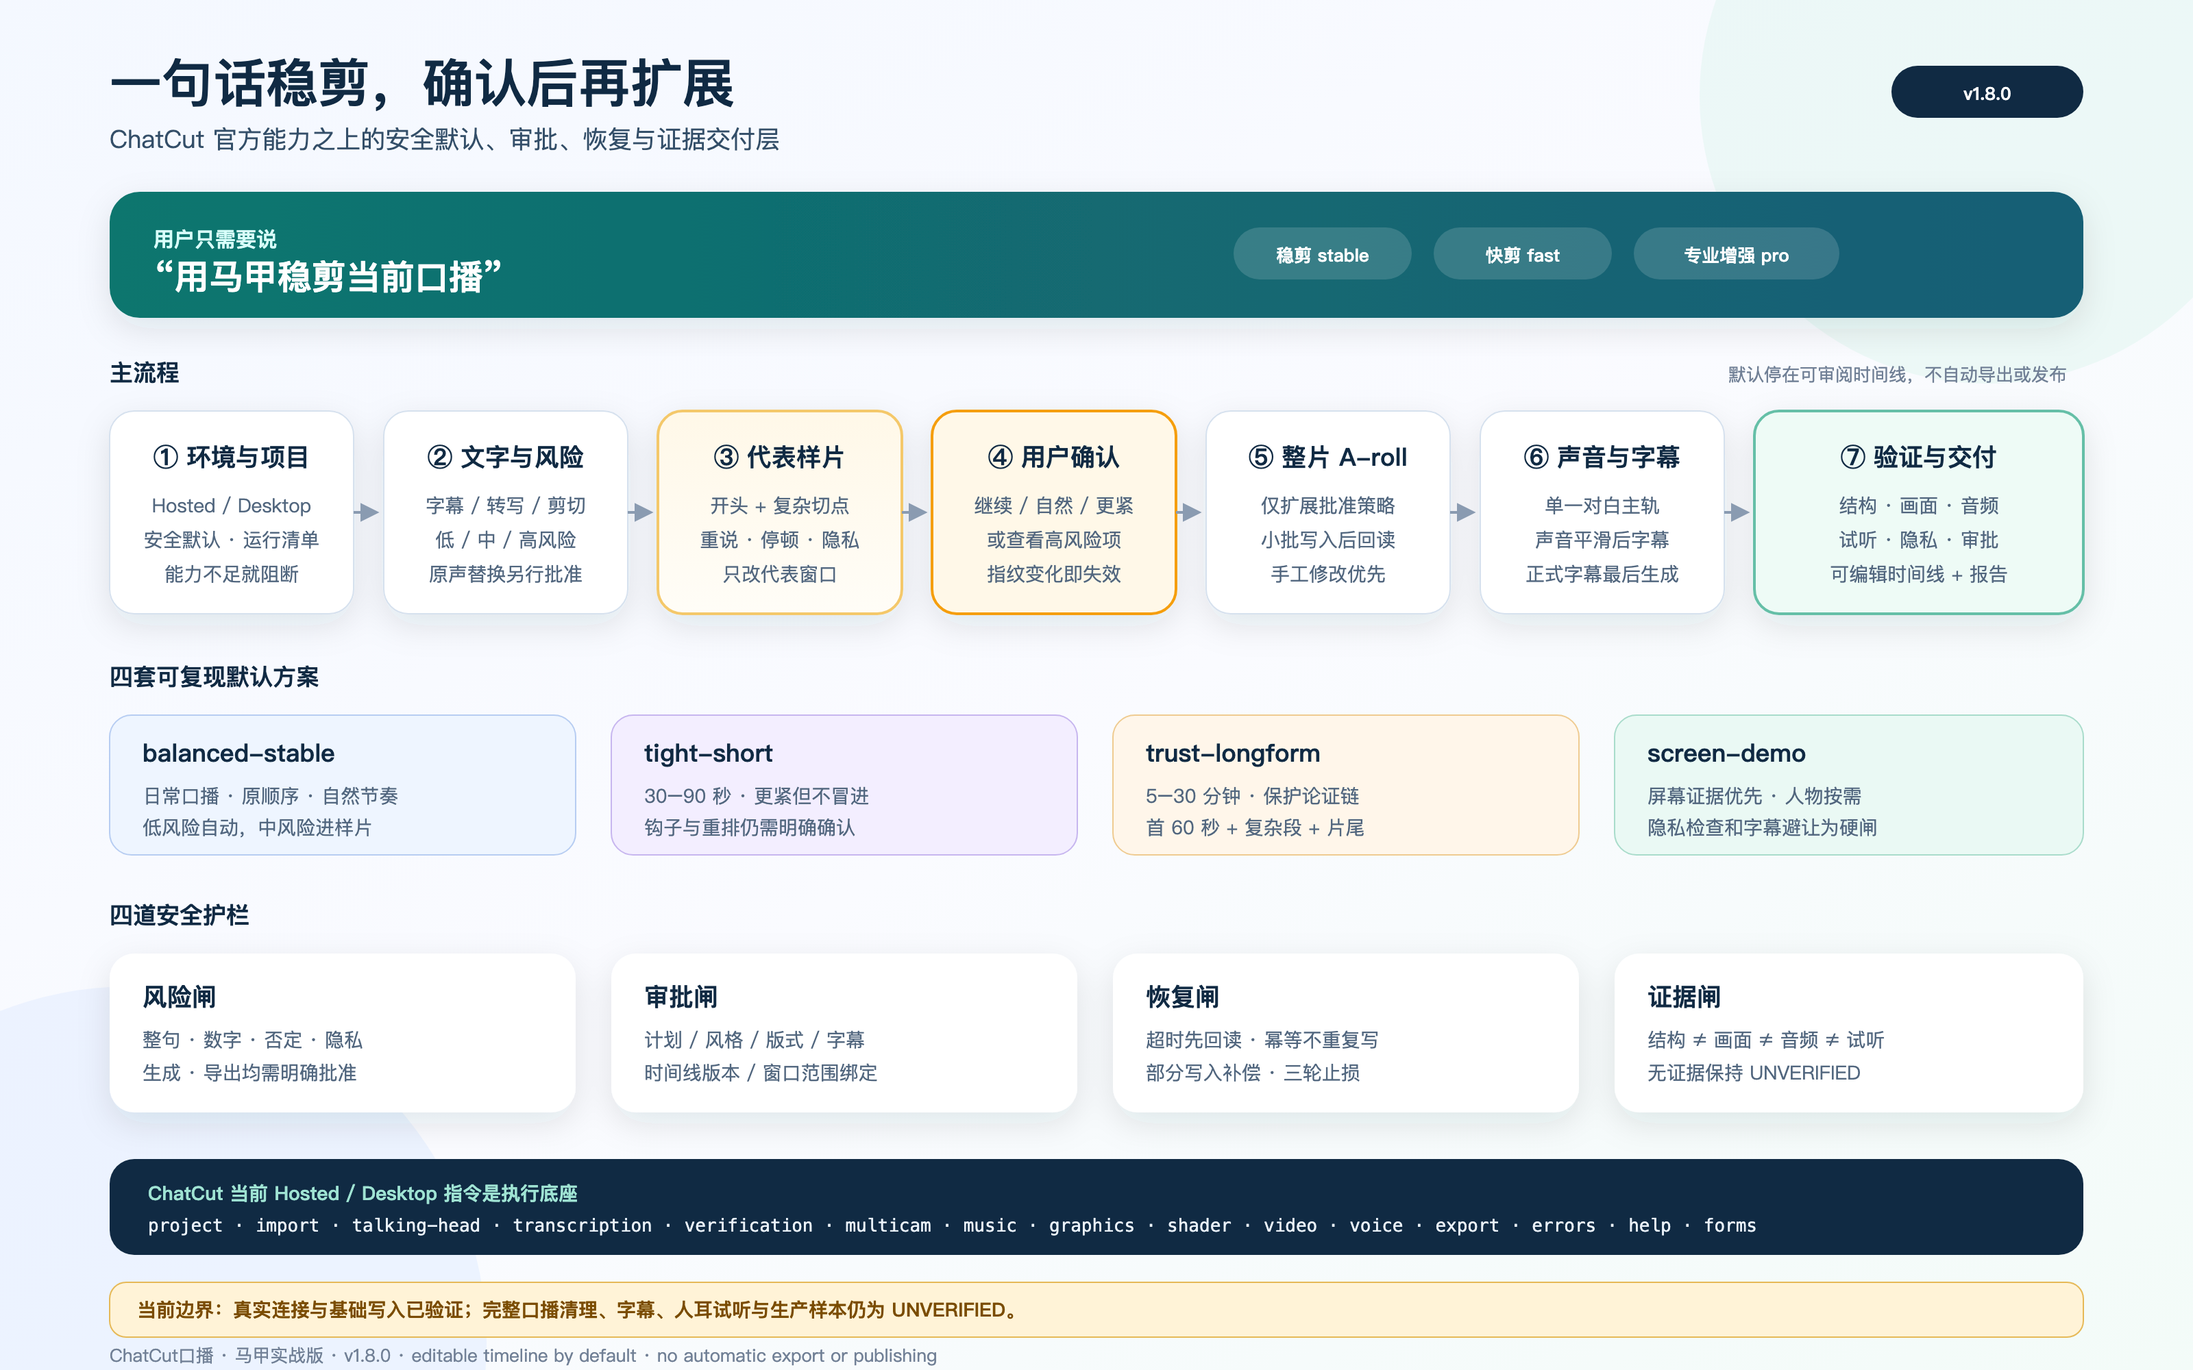
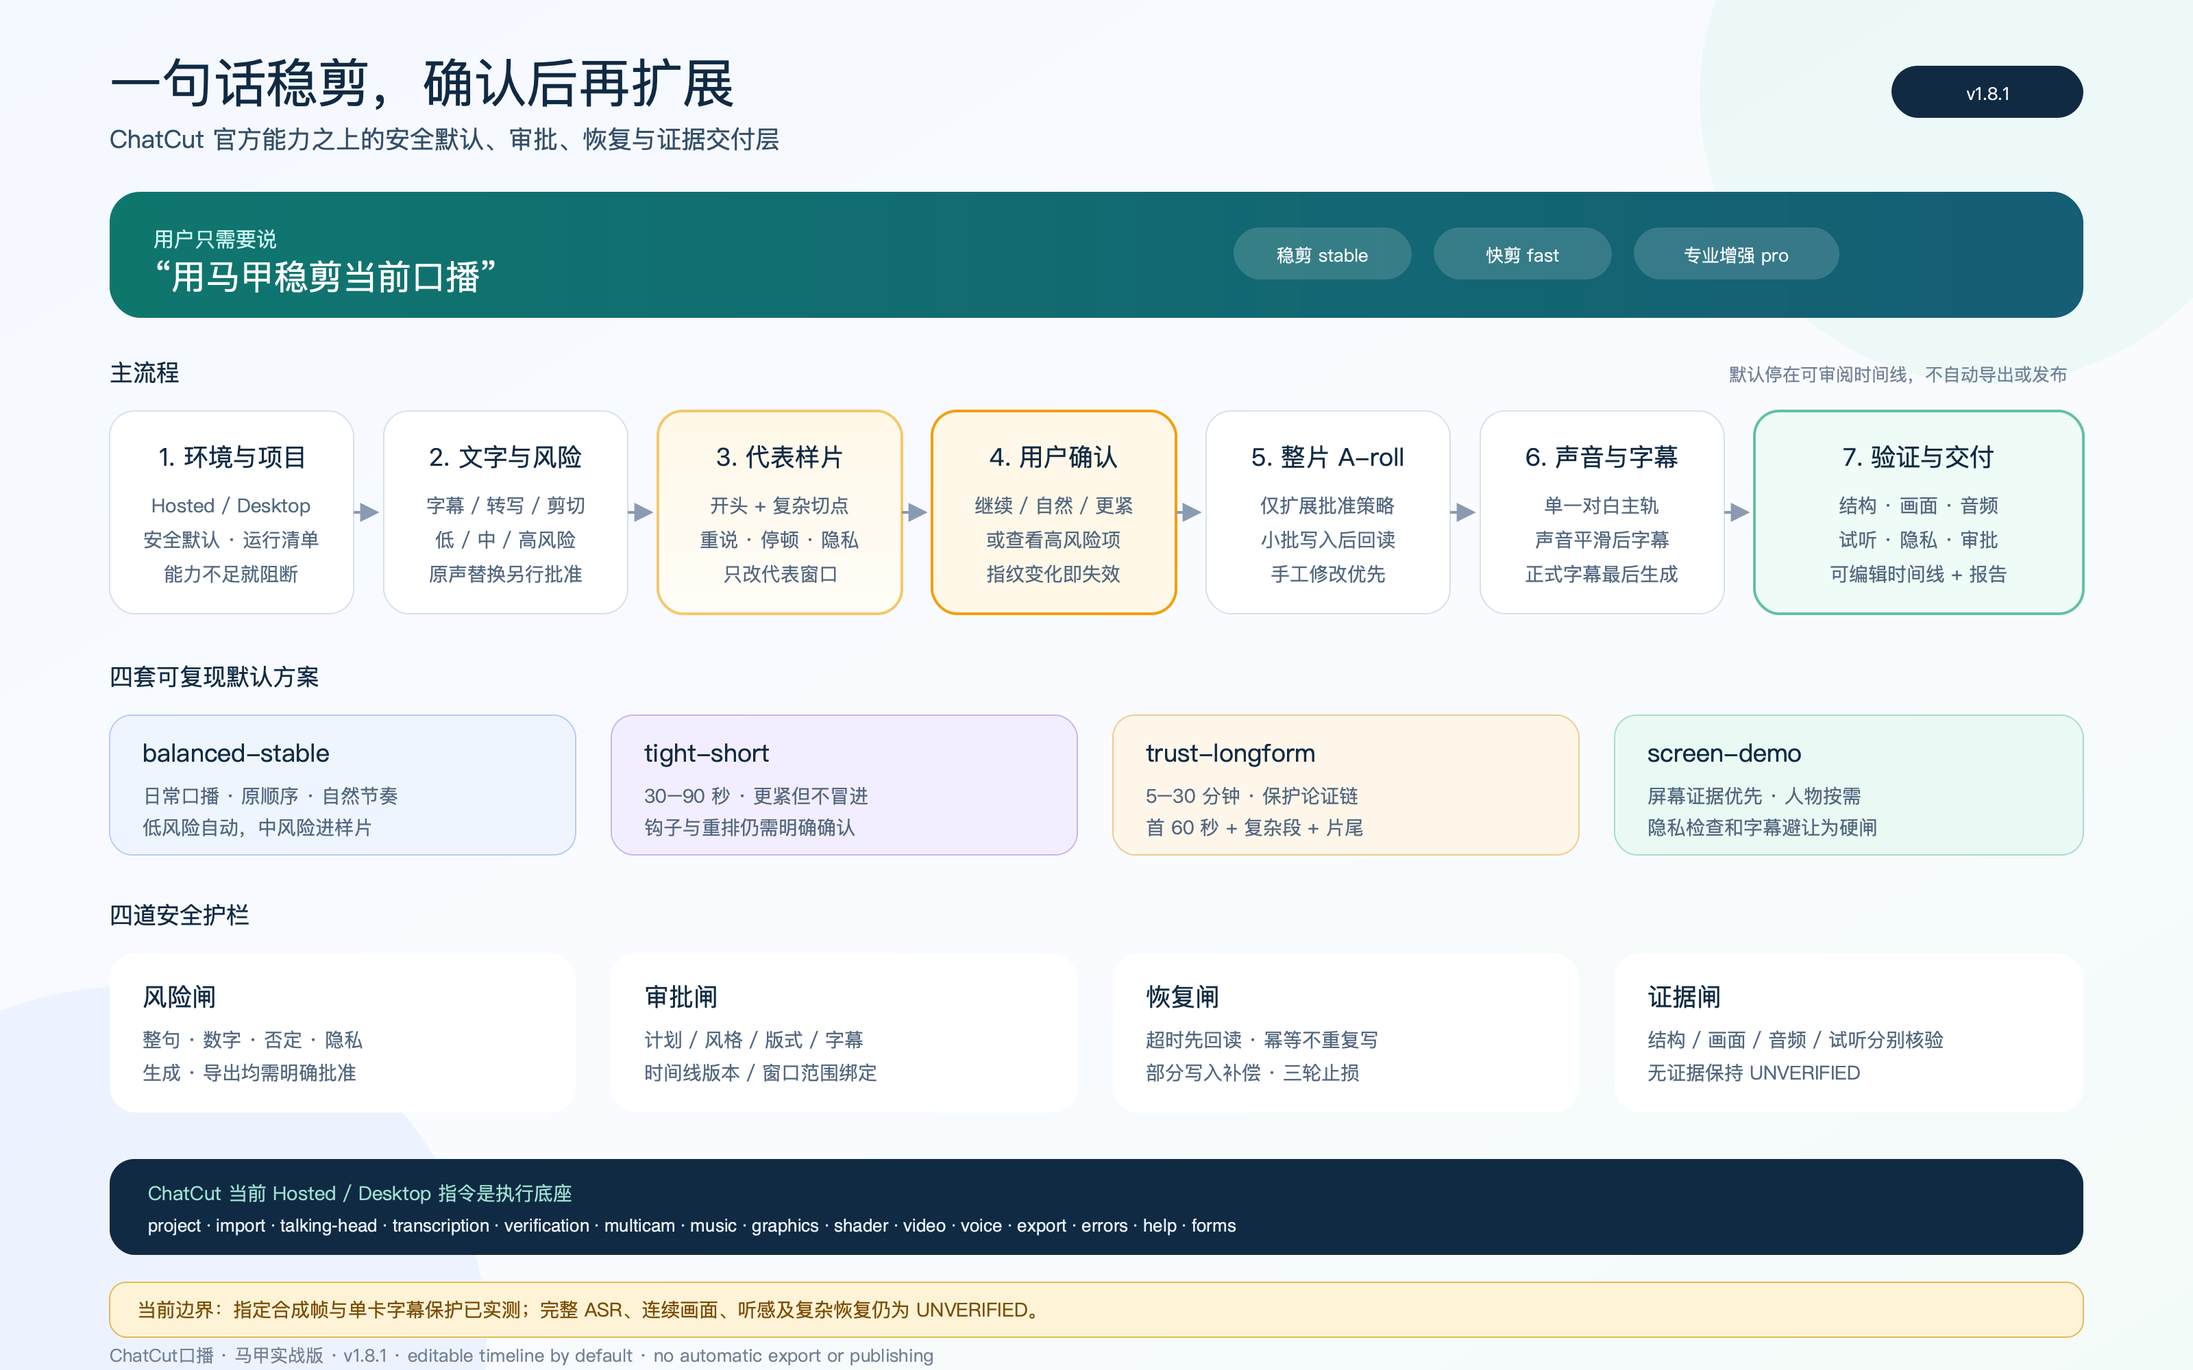
release: v1.8.1 visual verification and caption practice closeout

diff --git a/README.md b/README.md
@@ -1,13 +1,13 @@
 # ChatCut口播 · 马甲实战版
 
-![Skill Version](https://img.shields.io/badge/skill-v1.8.0-blue)
+![Skill Version](https://img.shields.io/badge/skill-v1.8.1-blue)
 [![skills.sh](https://skills.sh/b/maojiebc/majia-chatcut-koubo)](https://skills.sh/maojiebc/majia-chatcut-koubo)
 
 **ChatCut口播 · 马甲实战版｜一句话稳剪与可恢复主流程**
 
 > 给普通创作者的一句话入口：先安全清理口播、做代表样片，确认后再扩展整片，最后交回可继续编辑的 ChatCut 时间线。
 
-![v1.8.0 一句话稳剪流程](https://raw.githubusercontent.com/maojiebc/majia-chatcut-koubo/main/04-项目设计与路线图/系统架构.png)
+![v1.8.1 一句话稳剪流程](https://raw.githubusercontent.com/maojiebc/majia-chatcut-koubo/main/04-项目设计与路线图/系统架构.png)
 
 ## 30 秒开始
 
@@ -34,7 +34,7 @@ npm run smoke:one-click:fake
 
 运行 `npm run live:probe -- --config <private-mcporter.json>`，会实际读取 Hosted 工具清单和账号项目，只返回工具合同指纹、计数及分项状态。配置与 OAuth 留在本机，输出不含项目名称、ID、URL 或字幕。它不修改时间线，也不替代画面或人耳验收。
 
-官方检查现覆盖提交、已审查内容和整个 Hosted Skill 包，能发现导入 helper 的新增、删除或变化。监测指纹与逐项审查分别记录。每周做有价值的小更新，每三周以真实任务做较大迭代，验证后通过 majia-ota 发布。见 [实战维护](workflows/practical-maintenance.md)。
+官方检查现覆盖提交、已审查内容和整个 Hosted Skill 包，能发现导入 helper 的新增、删除或变化。监测指纹与逐项审查分别记录。2026-10-20 收尾后改为按需手动维护；更新经验证后通过 majia-ota 发布。见 [实战维护](workflows/practical-maintenance.md)。
 
 ## v1.7 环境与文字保护
 
@@ -144,17 +144,18 @@ npm run report -- --run-id <run-id>
 
 ## 当前验证边界
 
-| 能力 | v1.8.0 状态 |
+| 能力 | v1.8.1 状态 |
 | --- | --- |
 | 运行合同、四套方案、风险规则、状态转换 | `PASS`（离线自动检查） |
 | 超时前/后、部分写入、手工修改保护 | `PASS`（带结构化模拟证据的匿名会话） |
 | 一句话路由与本地命令 | `PASS`（离线自动检查） |
-| 真实 Hosted 账号读取与工具清单 | `PASS`（当前连接探针） |
+| 真实 Hosted 账号读取与工具清单 | `PASS`（已留存的连接探针记录） |
 | 独立测试项目标记写入与回读 | `PASS`（E1 回读 + E2 编辑器可见） |
 | 完整口播项目写入与质量 | `UNVERIFIED` |
-| 真实合成画面、人耳试听、匿名生产样本 | `UNVERIFIED` |
+| 指定合成帧、单卡字幕保留与旧修订冲突保护 | `PASS`（限定实操窗口，见经验库） |
+| 连续画面、人耳试听、匿名生产样本与复杂恢复 | `UNVERIFIED` |
 
-本轮已连接真实 Hosted 会话，并完成独立项目的标记写入与回读；完整口播样本、字幕与人耳试听尚未完成，因此 [`reports/live-canary-v1.8.0.json`](reports/live-canary-v1.8.0.json) 如实记录为 `stableClaimEligible=false`。离线模拟不能替代真实端到端证据；在至少 5 条真实匿名样本、三种长度、三种内容形态和恢复/手改保护全部通过前，本项目不会把“一键稳定剪辑已经生产验证”写成事实。
+已完成真实 Hosted 连接、指定合成帧，以及单卡字幕刷新/重载保留和旧修订冲突保护实测。完整 ASR 准确率、连续画面、听感与复杂中断恢复仍待核验，因此 [`reports/live-canary-v1.8.1.json`](reports/live-canary-v1.8.1.json) 如实记录为 `stableClaimEligible=false`。离线模拟不能替代真实端到端证据；在至少 5 条真实匿名样本、三种长度、三种内容形态和恢复/手改保护全部通过前，本项目不会把“一键稳定剪辑已经生产验证”写成事实。
 
 ## 与 ChatCut 官方能力怎么分工
 
@@ -244,6 +245,8 @@ reports/      脱敏真实验证状态
 本地个人词表、项目路径和真实业务内容只放本机配置，不进入公开仓。完整维护地图见 [`01-从这里开始/README.md`](01-从这里开始/README.md)。
 
 ## 版本记录
+
+**V1.8.1（2026-10-20）** — 对齐官方画面核验指引与来源快照，收录字幕保护实测；维护改为按需手动执行，完整稳剪仍为 `UNVERIFIED`。
 
 **V1.8.0（2026-10-13）** — 真实连接探针、工具合同指纹、官方包文件与提交监测、实战维护周期；完整稳剪仍为 `UNVERIFIED`。
 

diff --git a/README.en.md b/README.en.md
@@ -1,13 +1,13 @@
 # ChatCut Talking Head · Majia Field Edition
 
-![Skill Version](https://img.shields.io/badge/skill-v1.8.0-blue)
+![Skill Version](https://img.shields.io/badge/skill-v1.8.1-blue)
 [![skills.sh](https://skills.sh/b/maojiebc/majia-chatcut-koubo)](https://skills.sh/maojiebc/majia-chatcut-koubo)
 
 **ChatCut口播 · 马甲实战版 | One-sentence stable cut with recoverable execution**
 
 > A one-sentence path for ordinary creators: clean low-risk talking-head issues, approve a representative sample, extend the approved treatment, and hand back an editable ChatCut timeline.
 
-![v1.8.0 one-sentence workflow](https://raw.githubusercontent.com/maojiebc/majia-chatcut-koubo/main/04-项目设计与路线图/系统架构.png)
+![v1.8.1 one-sentence workflow](https://raw.githubusercontent.com/maojiebc/majia-chatcut-koubo/main/04-项目设计与路线图/系统架构.png)
 
 ## Start in 30 seconds
 
@@ -34,7 +34,7 @@ npm run smoke:one-click:fake
 
 `npm run live:probe -- --config <private-mcporter.json>` reads the Hosted tool manifest and account projects. It emits only counts, a contract fingerprint and separate verification states, with no project IDs, names, URLs or transcript text. OAuth remains local. A successful account read does not prove timeline writes, composed pixels or listening quality.
 
-The official-source check now detects commit changes and added, removed or changed files across the Hosted Skill package. Watched fingerprints are distinct from reviewed instructions. Weekly maintenance and a larger practical iteration every three weeks follow the [maintenance workflow](workflows/practical-maintenance.md), with majia-ota release readback.
+The official-source check now detects commit changes and added, removed or changed files across the Hosted Skill package. Watched fingerprints are distinct from reviewed instructions. As of 2026-10-20, maintenance is triggered on demand using the [maintenance workflow](workflows/practical-maintenance.md), with majia-ota release readback.
 
 ## v1.7 session and text safety
 
@@ -127,17 +127,18 @@ The handoff keeps `PASS`, `FAIL`, `UNVERIFIED`, `STALE`, `WAIVED`, `NOT_APPLICAB
 
 ## Current verification boundary
 
-| Capability | v1.8.0 status |
+| Capability | v1.8.1 status |
 | --- | --- |
 | Schemas, profiles, risk policy, state transitions | `PASS` offline |
 | timeout-before/after, partial write, manual-edit protection | `PASS` in anonymous sessions with structured simulation evidence |
 | starter prompt routing and local CLI | `PASS` offline |
-| Hosted account discovery and tool manifest | `PASS` (current connection probe) |
+| Hosted account discovery and tool manifest | `PASS` (recorded connection probe) |
 | Test-project marker write and readback | `PASS` (E1 readback + E2 editor visibility) |
 | complete talking-head writes and quality | `UNVERIFIED` |
-| real rendered pixels, human listening, anonymous production cases | `UNVERIFIED` |
+| sampled composed frames and single-card persistence/revision protection | `PASS` in bounded practice windows |
+| continuous playback, human listening, production cases and complex recovery | `UNVERIFIED` |
 
-[`reports/live-canary-v1.8.0.json`](reports/live-canary-v1.8.0.json) currently records `stableClaimEligible=false`. Offline simulation is not live evidence. This project will not claim production-proven one-click stable editing until the live gate covers at least five anonymous cases across three lengths, three content shapes, recovery, and manual-edit protection.
+[`reports/live-canary-v1.8.1.json`](reports/live-canary-v1.8.1.json) currently records `stableClaimEligible=false`. Offline simulation is not live evidence. This project will not claim production-proven one-click stable editing until the live gate covers at least five anonymous cases across three lengths, three content shapes, recovery, and manual-edit protection.
 
 ## Official ChatCut division of responsibility
 
@@ -203,6 +204,8 @@ See the [public roadmap](04-项目设计与路线图/公开路线图.md) for eng
 Private terms, project paths, and business content belong only in local configuration and never in the public repository.
 
 ## Version history
+
+**V1.8.1 (2026-10-20)** — Updated official visual-analysis routing and source snapshot; recorded bounded caption persistence and stale-revision tests. Maintenance is now on demand; full stable editing remains `UNVERIFIED`.
 
 **V1.8.0 (2026-10-13)** — Read-only live probe, tool-contract fingerprint, official-package and commit monitoring, and practical maintenance. Full talking-head editing remains `UNVERIFIED`.
 

diff --git a/03-实操迭代与踩坑/迭代记录.md b/03-实操迭代与踩坑/迭代记录.md
@@ -522,3 +522,15 @@
 - promoted: none；同一副本的一张卡，不满足独立规则晋升和生产验收。
 - files_changed: 来源快照、入口分工、官方能力地图、本轮来源复核文档、既有字幕保护案例及此读取回执。
 - verification: 真实 Hosted 返回 revision conflict；后续字幕回读、编辑器截图与第 10 帧合成像素确认新内容未被覆盖及恢复成功。原样片已读取字幕窗口和两条时间线 A-roll 结构与操作前一致。官方 checkout 的五个变更文件已审查，监测范围仍覆盖整个 Hosted 包。生产声明保持 UNVERIFIED。
+
+## 2026-10-20 · V1.8.1 正式收尾
+
+- skill_version_before: `1.8.0`。
+- actor: `Codex；用户直接要求正式发版、更新 GitHub 并取消定时任务`。
+- cases_read: `FR-2026-10-17-CAPTION-PERSIST-001` 及当日来源复核与实测记录。
+- adopted: 将本轮已提交的来源适配、画面核验指引与字幕保护证据收录到 patch 版本；维护改为按需执行，保留原片、测试项目与恢复点。
+- rejected_or_deferred: 不新增剪辑用例、不将单卡实测升级为完整生产资格；未验收项保留，不把取消调度当作测试完成。
+- new_canaries: none；本次仅收尾发版。
+- promoted: none。
+- files_changed: 版本元数据、当前能力说明、维护安排、架构图版本标识和当前版本生产声明报告。
+- verification: 发布验证以本次精确提交的仓库门禁、GitHub CI、branch/tag/Release 与本机入口回读为准；没有新媒体实测。

diff --git a/04-项目设计与路线图/公开路线图.md b/04-项目设计与路线图/公开路线图.md
@@ -1,8 +1,8 @@
 # majia-chatcut-koubo 公开工程路线图
 
-> 状态基线：V1.8.0
+> 状态基线：V1.8.1
 >
-> 更新日期：2026-10-13
+> 更新日期：2026-10-20
 >
 > 适用范围：公开仓库的工程能力、契约、验证与 ChatCut 适配层
 
@@ -10,7 +10,7 @@
 
 ## 1. 当前判断
 
-V1.8.0 新增真实 Hosted 只读连接探针、工具合同指纹和官方整包文件监测。独立测试项目已有账号读取、标记写入与回读证据；这些操作不替代口播、字幕、合成画面和试听验收。每周维护、每三周实战迭代，通过 majia-ota 发布并回读。
+V1.8.0 新增真实 Hosted 只读连接探针、工具合同指纹和官方整包文件监测。独立测试项目已有账号读取、标记写入与回读证据；这些操作不替代口播、字幕、合成画面和试听验收。V1.8.1 补入官方画面核验路由与字幕保护实测；定时维护于本次收尾改为按需执行，后续发布仍走 majia-ota 并回读。
 
 V1.7.0 补齐环境合同准入、Hosted/Desktop 路由、文字目标保护、原声替换高风险审批与官方来源漂移检查。它们解决兼容与误操作问题，不升级真实 ChatCut 证据。完整取舍见 [2026-09-30 官方更新与设计](https://github.com/maojiebc/majia-chatcut-koubo/blob/main/04-%E9%A1%B9%E7%9B%AE%E8%AE%BE%E8%AE%A1%E4%B8%8E%E8%B7%AF%E7%BA%BF%E5%9B%BE/2026-09-30%E5%AE%98%E6%96%B9%E6%9B%B4%E6%96%B0%E4%B8%8Ev1.7%E8%AE%BE%E8%AE%A1.md)。
 

diff --git a/04-项目设计与路线图/2026-10-20-官方更新核对.md b/04-项目设计与路线图/2026-10-20-官方更新核对.md
@@ -21,3 +21,7 @@
 继续使用已有隔离时间线，对一张字幕卡注入新显示修订，再以旧修订号提交覆盖。官方工具返回 revision conflict；回读和第 10 帧合成像素保留新内容，旧写入未覆盖。使用当前修订号恢复原显示文字后，再次回读和检查像素；原样片首个字幕窗口与两条时间线的 A-roll 结构未变。完整过程追加在[字幕保护案例](../03-实操迭代与踩坑/案例/2026-10-17-字幕修订刷新与编辑器重载.md)。
 
 这是单张字幕的冲突保护实测，不是人工作业、断网、部分写入恢复或人工 A-roll 修改保护验收。原声识别准确率、连续画面及听感仍待核验，生产 canary 和稳定性声明不升级。
+
+## 当日收尾补记
+
+来源核对完成后，用户明确要求正式发版并取消定时任务；以上维护内容随 v1.8.1 发布。开头“未新发编号版本”描述来源核对结束时的状态，不代表本次收尾后的发布状态。完整稳剪仍为 UNVERIFIED。

diff --git a/CHANGELOG.md b/CHANGELOG.md
@@ -2,6 +2,13 @@
 
 ## Unreleased
 
+## V1.8.1 · 2026-10-20
+
+- 对齐官方 Hosted 1.10.17 来源快照与 18 个 Skill 分工，新增 `visual-analysis` 按需入口；区分仓库、官网与实际运行版本。
+- 收录指定合成帧、单卡字幕刷新/重载保留和旧修订覆盖被拦截的真实实测；原始素材与回执保留在私有目录。
+- 按用户收尾要求将定时维护改为按需执行，保留现有测试项目、原片与恢复记录。
+- 本版不变更编排代码；完整 ASR、连续画面、听感与复杂恢复仍未验收，生产资格保持 false。
+
 ## V1.8.0 · 2026-10-13
 
 - 新增 `live:probe`：实际读取 Hosted 工具清单与账号项目，只输出脱敏连接结果和合同指纹，不升级媒体、写入、试听或完整稳剪声明。

diff --git a/workflows/practical-maintenance.md b/workflows/practical-maintenance.md
@@ -1,6 +1,6 @@
 # 实战维护
 
-每周核对官方变化并落实有实际价值的小修，每三周用真实任务做一次较大迭代。首轮为 2026-10-13，下一轮较大迭代为 2026-11-03。较大迭代不强制破坏兼容；没有价值的变化不凑版本。Codex 定时维护留在同一聊天，未变化且无需处理时保持安静。
+2026-10-20 按用户收尾要求结束原每周维护和每三周迭代安排，改为用户按需手动触发。保留专属测试项目、原片、许可、恢复点和历次实测账本；以下流程用于今后明确授权的维护，不自行恢复定时任务。
 
 ## 先确认真实连接
 
